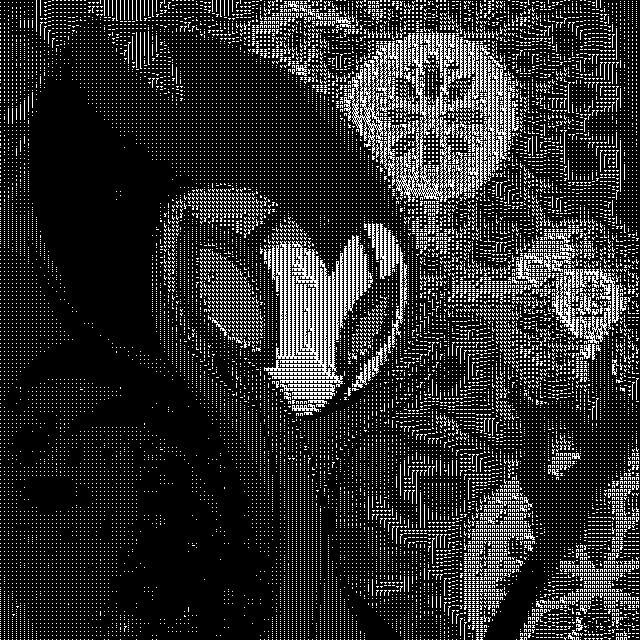
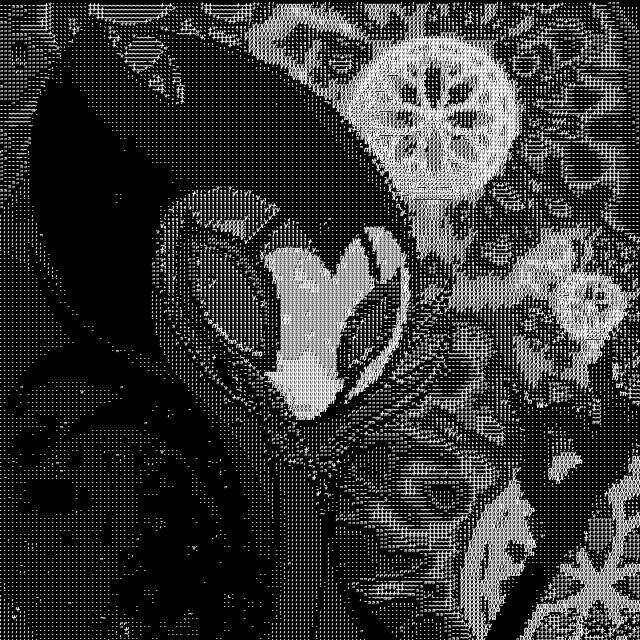
Add files via upload

diff --git a/A-Art/ArtConverter.py b/A-Art/ArtConverter.py
@@ -1,5 +1,5 @@
 import cv2
-import pygame as pg
+from PIL import Image, ImageDraw, ImageFont
 import os
 from math import ceil
 from AsciiSorter import AsciiSorter
@@ -8,7 +8,7 @@ from AsciiSorter import AsciiSorter
 class ArtConverter:
     """Этот клас читает изображение и создаёт новое с помощью ASCII-символов"""
 
-    def __init__(self, path, need_preview, font_size, ascii_palette, need_sort_palette, variable_space, font_name):
+    def __init__(self, path, font_size, ascii_palette, need_sort_palette, variable_space, font_name):
         """Конструктор класса"""
         # Проверка на наличие токого файла
         if not os.path.exists(path):
@@ -20,21 +20,21 @@ class ArtConverter:
         if "/" in path:
             print("Нежелательный символ '/' в пути, заменён на '\\'")
             path = path.replace("/", "\\")
-        # Инициализация PyGame
-        pg.init()
         # Путь до файла
         self.path = path
-        self.need_preview = need_preview
         # Имя файла
         self.file_name = path.split("\\")[-1].split(".")[0]
         # Расширение файла
         self.expansion = path.split("\\")[-1].split(".")[1]
+        # Проверка, что входной файл подходт по расширению
+        if self.expansion not in ["jpg"]:
+            raise Exception(f"Расширение {self.expansion} не обрабатывается")
         # Получаем изображение как спсисок списков, состояших из номеров цвета пикселей
         self.image = self.get_image()
         # Получаем размеры изображения
         self.res = self.width, self.height = self.image.shape[0], self.image.shape[1]
-        # Создание поля PyGame, на котором буде рисовать
-        self.surface = pg.display.set_mode(self.res)
+        # Заготовка для изображения PIL
+        self.pil_image = Image.new("RGB", (self.width, self.height), "black")
         # Палитра ascii-символов  (Можно поэксперементировать)
         self.ascii_chars = list(ascii_palette)
         # Обозначение пути до шрифта
@@ -52,12 +52,13 @@ class ArtConverter:
             raise Exception("В палитре не может быть больше 255 разных символов")
         # Средство для определения, какой символ писать
         self.ascii_coefficient = ceil(255 / (len(self.ascii_chars)))
-        # Определение шрифта для PyGame
-        self.font = pg.font.SysFont(self.font_path, self.font_size)
-        # Константа, взятая, чтобы размеры изображений совпадали (Можно поэксперементировать)
+        # Константа, взятая, чтобы размеры изображений совпадали
         self.char_step = int(self.font_size * 0.6)
-        # Рендеринг символов, чтобы их можно было добавить в итоговое изображение
-        self.rendered_ascii_chars = [self.font.render(char, False, "white") for char in self.ascii_chars]
+        # Определение шрифта для PIL и проверка того, что с ним можно работать
+        try:
+            self.font = ImageFont.truetype(self.font_path, self.font_size)
+        except Exception:
+            raise Exception("Возникла ошибка при работе со шрифтом, пожалуйста, выберите другой")
 
     def get_image(self):
         """Этот метод переводит изображение в список списков пикслей"""
@@ -65,47 +66,19 @@ class ArtConverter:
         cv2_image = cv2.imread(self.path)
         # Транспонирование матрицы () иначе изображение перевёрнутое
         transposed_image = cv2.transpose(cv2_image)
-        # Покраска пикселей в серый цвет (от 0 до 255 вроде бы)
+        # Покраска пикселей в серый цвет (от 0 до 255)
         gray_image = cv2.cvtColor(transposed_image, cv2.COLOR_BGR2GRAY)
         return gray_image
 
     def draw_converted_image(self):
-        """Этот метод создаёт ASCII-изображение"""
-        # Заполнение поля PyGame тёмным цветом
-        self.surface.fill("black")
-        # Выяснение какой сивол должен быть напечатан вместо конкретного пикселя (Можно поэксперементировать)
+        """Формирование ascii-изображения"""
+        # Присвоение пикселю соответствующую ему букву палитры ascii-символов
         char_indices = self.image // self.ascii_coefficient
-        # Обход исходного изображение и добавления в итоговый результат ASCII-символы в зависимости от char_indices
+        # Стандартная процедура для начала рисования PIL
+        draw = ImageDraw.Draw(self.pil_image)
+        # Обход излбражения с нужным шагом и зарисовка нужных символов для PIL
         for x in range(0, self.width, self.char_step):
             for y in range(0, self.height, self.char_step):
-                char_index = char_indices[x, y]
-                self.surface.blit(self.rendered_ascii_chars[char_index], (x, y))
-
-    def save_image(self):
-        """Этот метод сохраняет изображение"""
-        # Представление изображения PyGame, как список списков пикселей
-        pygame_image = pg.surfarray.array3d(self.surface)
-        # Транспонирование для работы с библиоекой CV2
-        cv2_image = cv2.transpose(pygame_image)
-        # Сохранение файла в папке "output_images"
-        cv2.imwrite("output_images\\" + self.file_name + "_converted." + self.expansion, cv2_image)
-
-    def run(self):
-        """Этот метод запускает работу класса"""
-        #  Начало рисовки
-        self.draw_converted_image()
-        if self.need_preview:
-            # Обновление изображения PyGame
-            pg.display.flip()
-            # Вечный цикл для обработки ввода пользователя
-            while True:
-                for i in pg.event.get():
-                    # Обработка закрытия программы
-                    if i.type == pg.QUIT:
-                        exit()
-                    # Обработка нажатия клавиши "s"
-                    elif i.type == pg.KEYDOWN:
-                        if i.key == pg.K_s:
-                            self.save_image()
-        else:
-            self.save_image()
+                draw.text((x, y), self.ascii_chars[char_indices[x, y]], font=self.font, fill="white")
+        # Сохранение изображения
+        self.pil_image.save("output_images\\" + self.file_name + "_converted." + self.expansion)

diff --git a/A-Art/start_conversion.py b/A-Art/start_conversion.py
@@ -4,9 +4,7 @@ from ArtConverter import ArtConverter
 if __name__ == "__main__":
     parser = argparse.ArgumentParser()
     parser.add_argument("path", type=str, help="Путь до файла")
-    parser.add_argument("-n", "--need_preview", action="store_true",
-                        help="Указать, если нужно только показать результат с возможностью сохранения")
-    parser.add_argument("-f", "--font_size", type=int, default=12, help="Размер шрифта")
+    parser.add_argument("-f", "--font_size", type=int, default=8, help="Размер шрифта")
     parser.add_argument("-p", "--ascii_palette", type=str, default='.,"-~+*:;!vxnm#W&8@',
                         help="Палитра ascii-символов")
     parser.add_argument("-s", "--need_sort_palette", action="store_true",
@@ -15,5 +13,5 @@ if __name__ == "__main__":
                         help="Добавление пробела в палитру ascii-символов")
     parser.add_argument("-c", "--choose_font", default="Roboto-BoldItalic", help="Имя шрифта без расширения и пути")
     arg = parser.parse_args()
-    ArtConverter(arg.path, arg.need_preview, arg.font_size, arg.ascii_palette, arg.need_sort_palette,
-                 arg.variable_space, arg.choose_font).run()
+    ArtConverter(arg.path, arg.font_size, arg.ascii_palette, arg.need_sort_palette,
+                 arg.variable_space, arg.choose_font).draw_converted_image()
